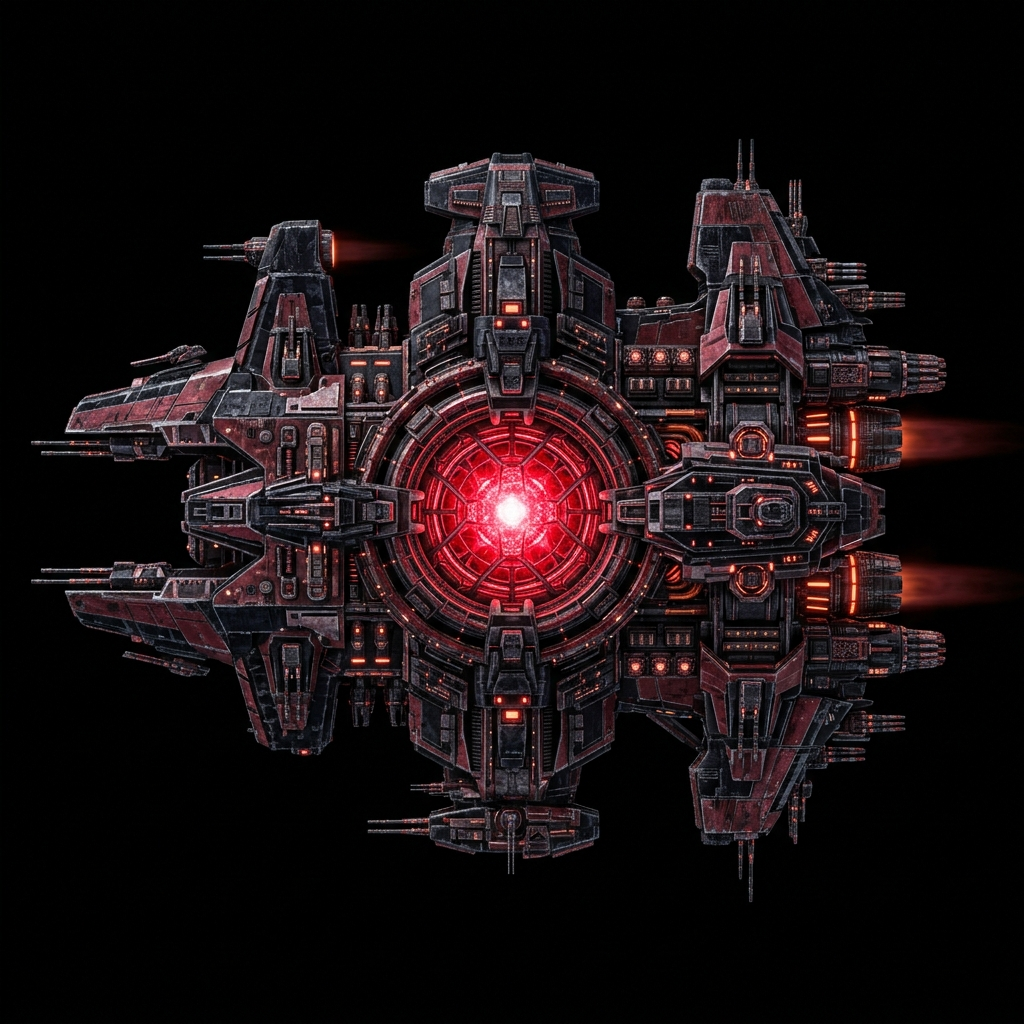
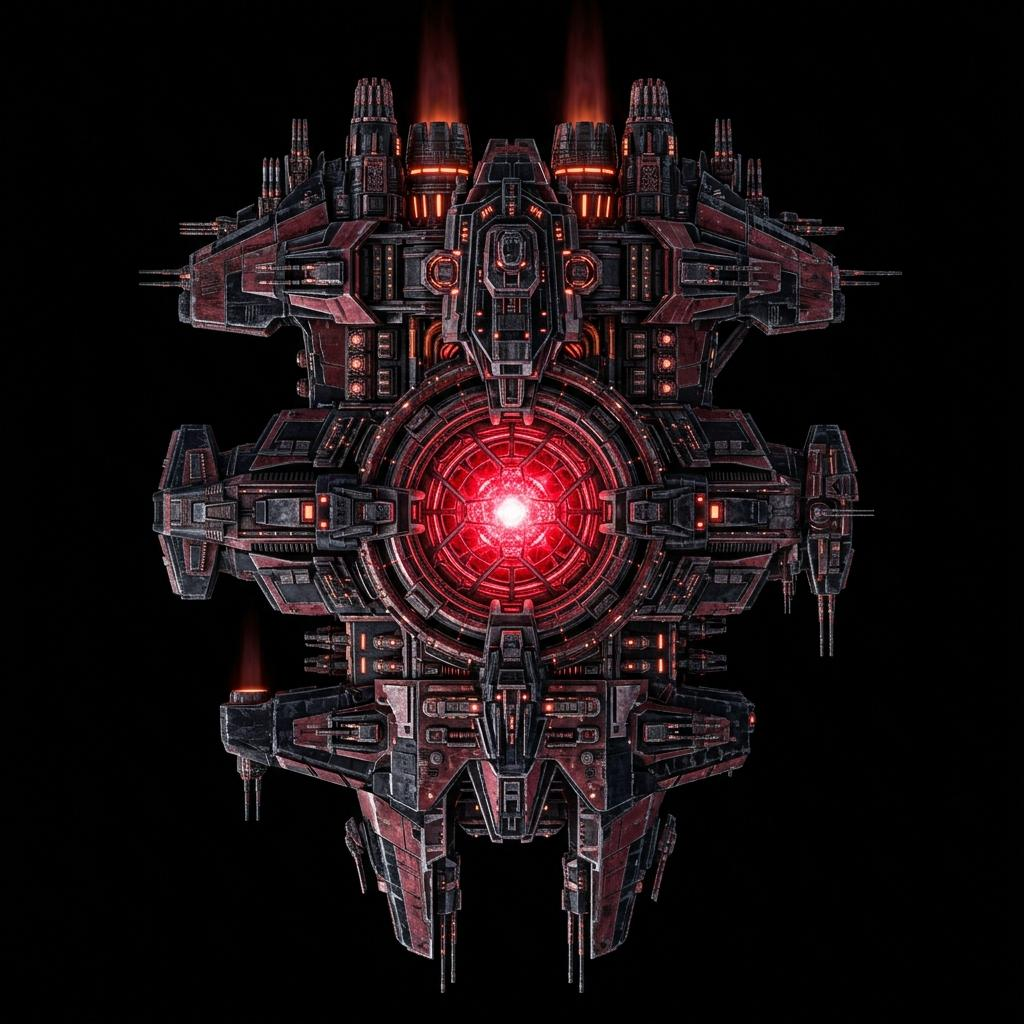
fix: rotate player spaceship to face 12 oclock up and boss flagship to face 6 oclock down

diff --git a/sw.js b/sw.js
@@ -1,8 +1,8 @@
 "use strict";
 
 const CACHE_PREFIX = "today-game-";
-const SHELL_CACHE = `${CACHE_PREFIX}shell-v10`;
-const RUNTIME_CACHE = `${CACHE_PREFIX}runtime-v10`;
+const SHELL_CACHE = `${CACHE_PREFIX}shell-v11`;
+const RUNTIME_CACHE = `${CACHE_PREFIX}runtime-v11`;
 const APP_SHELL = [
   "/",
   "/index.html",

diff --git a/games/cosmic-dodge/index.html b/games/cosmic-dodge/index.html
@@ -75,6 +75,6 @@
     <script src="/js/scores.js"></script>
     <script src="/js/game-rank.js"></script>
     <script src="/js/pause.js"></script>
-    <script src="game.js?v=5"></script>
+    <script src="game.js?v=6"></script>
   </body>
 </html>
